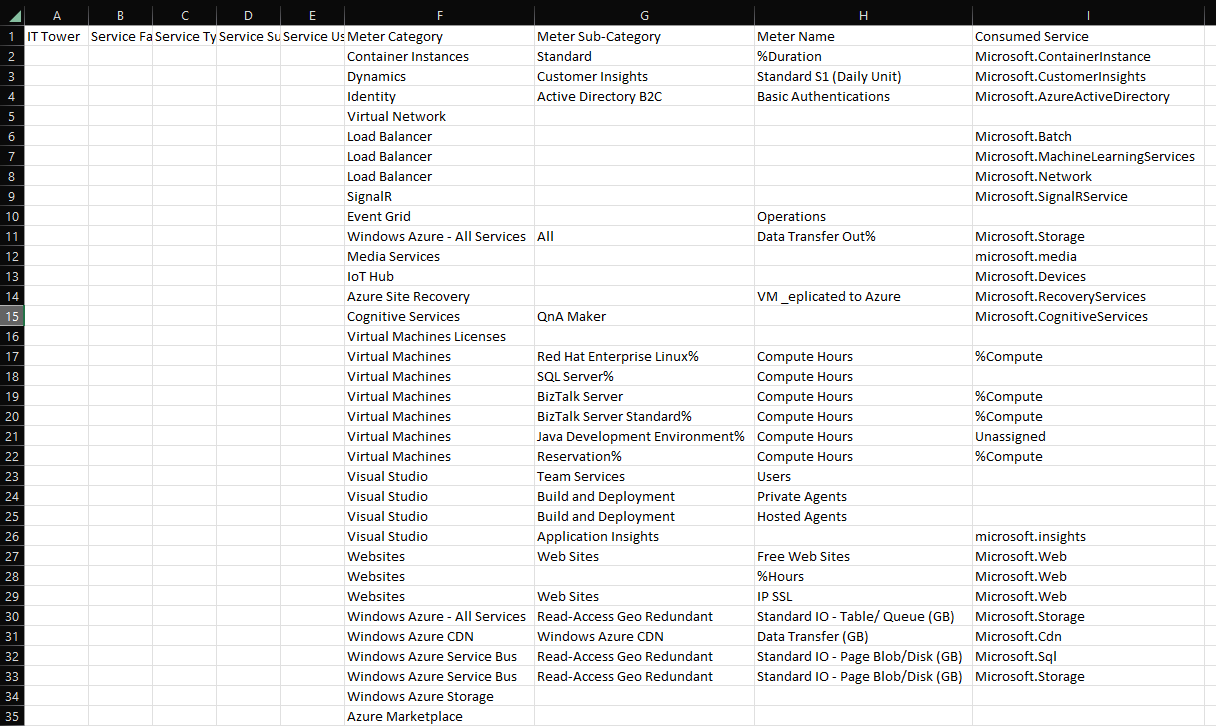
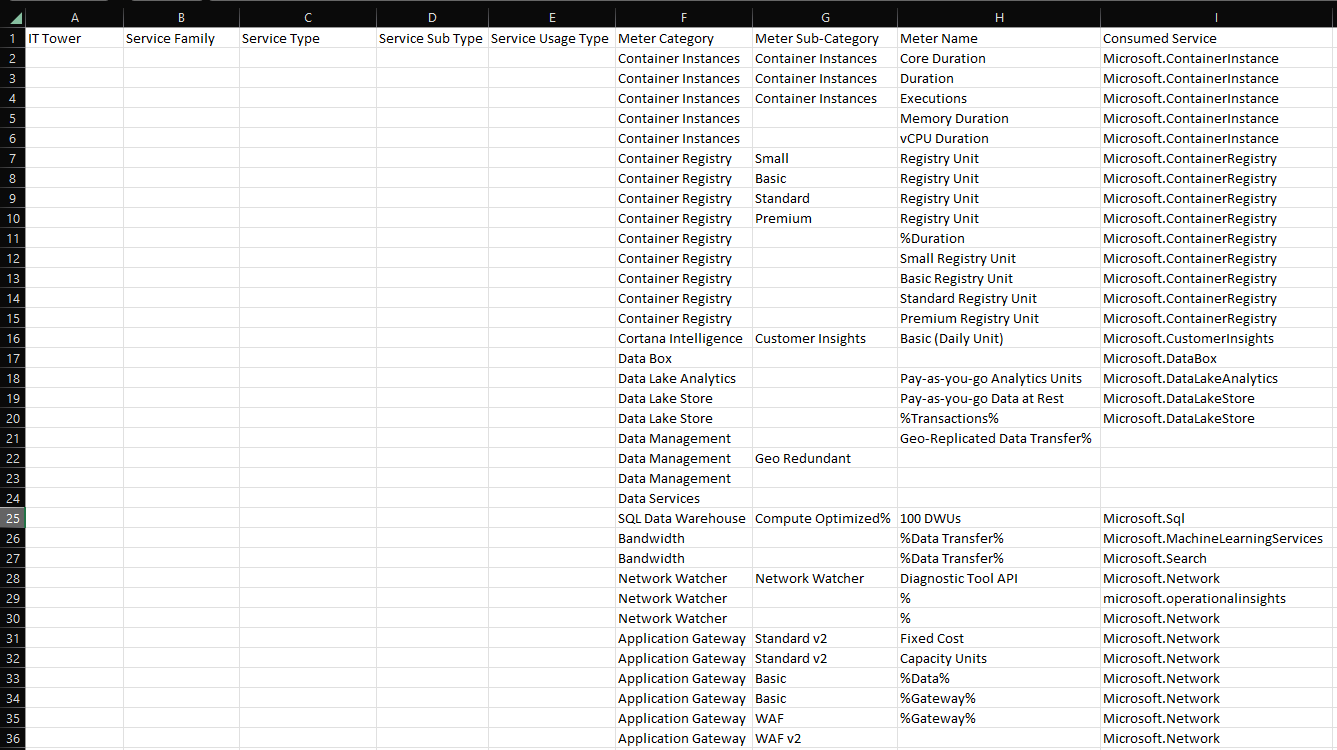
a

diff --git a/azure/README.md b/azure/README.md
@@ -21,7 +21,7 @@
 
 ## Практическая часть
 
-Я продолжил работать с 8 вариантом
+Я дедал 9 вариант
 
 ### Как выглядело изначально
 
@@ -33,56 +33,39 @@
 #### Container Instances
 > Сервис, который помогает с работой с контейнерами без в.м.
 
-#### Dynamics
-> По сути просто анализ данных клиентов, что-то типо CRM
+#### Container Registry
+> Нужен по сути для хранения и запуска контейнеров в облке
 
-#### Active Directory B2C
-> Аутентификация и авторизация пользователей
+#### Customer Insights 
+> Помогает с бизнес-процессами и анализом клиентов
 
-#### Virtual Network
-> Создает изолированые инфраструктуры в облаке, которое после может управлять подсетями
+#### Data Box 
+> Большая хранилка данных, которая передает от нас инфу до сервиса azure
 
-#### Load Balancer
-> Если вкртаце, то балансировщик нагрузки между ресурсами. Нужен для оптимизавции
+#### Data Lake Analytics 
+> Анализ крайне большего количества данных
 
-#### SignalR
-> О, прикольная штука, позволяет создавать приложения для чего-то в прямом эфире.
+#### Data Lake Store 
+> Тоже большая хранилка данных, но по сути ориентирована предде всего на аналитику этих самых данных
 
-#### Event Grid
-> Управление событиями и сообщениями между сервисами
+#### sql 
+> Как понял, то в целом это (наверно так моэно сказать) набор сервисов и он управляет ими, типо Azure SQL Database, Azure SQL Managed Instance, Synapse SQL pool и т.д.
 
-#### Media Services
-> По сути, просто обработка всяких медиа, типо кодирования видео и т.п.
+#### Machine Learning Services 
+> Помогает с обучением машин, типо обучение, тестирование и т.д.
 
-#### IoT Hub
-> Классная штука, писал в одной из лаб про нее. Позволяет управлять устройствами с IoT. По большей части - связь нескольких устройств в одну сеть (IoT)
 
-#### Azure Site Recovery
-> Помогает с резеврными копиями и их востановлением при ЧП
+#### Search 
+> По сути просто поисковик с ИИ. 
 
-#### Cognitive Services
->  Набор апишек для ии
+#### Network
+> Отвечает за все сетевые приколы в azure, как пример: Virtual Network или Load Balancers
 
-#### Virtual Machines
-> Набор вирт. серверов, чтобы там свои пет проектики пилить и публиковать. Можно даже выбрать ос да и в целом под себя кастомизовать.
+#### Application Gateway
+> Помогает серверам не помереть от нагрузки, балансировщик. Перенапряет трафик и т.п.
 
-#### Visual Studio
-> Ну, думаю да, представлять не стоит. Редактор кода.
-
-#### Application Insights
-> Что-то типо аудита для улучшения производительности
-
-#### Websites
-> Сервис для помощи с работой вэб-сайтов. 
-
-#### General Storage 
-> Хранилка всяких приколов, типо табличек или даже blob-данных (картинки, компилированый програмнный код)
-
-#### Content Delivery Network 
-> Помогает ускоить процесс передачи данных и минимизировать задержи благодаря географически распределённым серверам
-
-#### Azure Marketplace
-> По большей части - магази приложух
+#### Operational Insights 
+> С помощью него можно создавать и управлять рабочими пространствами (workspace) для логов
 
 ### Таблица после всех преобраований
 
@@ -90,4 +73,4 @@
 
 ## Вывод
 
-При выполнении лабораторной работы №2 я ознакомился с абалдеть каким количеством сервисов. А так же полученил навыки аналитики и понимания спектра публичных облачных сервисов без привязки к вендору
+При выполнении лабораторной работы №2 я ознакомился с абалдеть каким количеством сервисов дважды. А так же полученил навыки аналитики и понимания спектра публичных облачных сервисов без привязки к вендору
